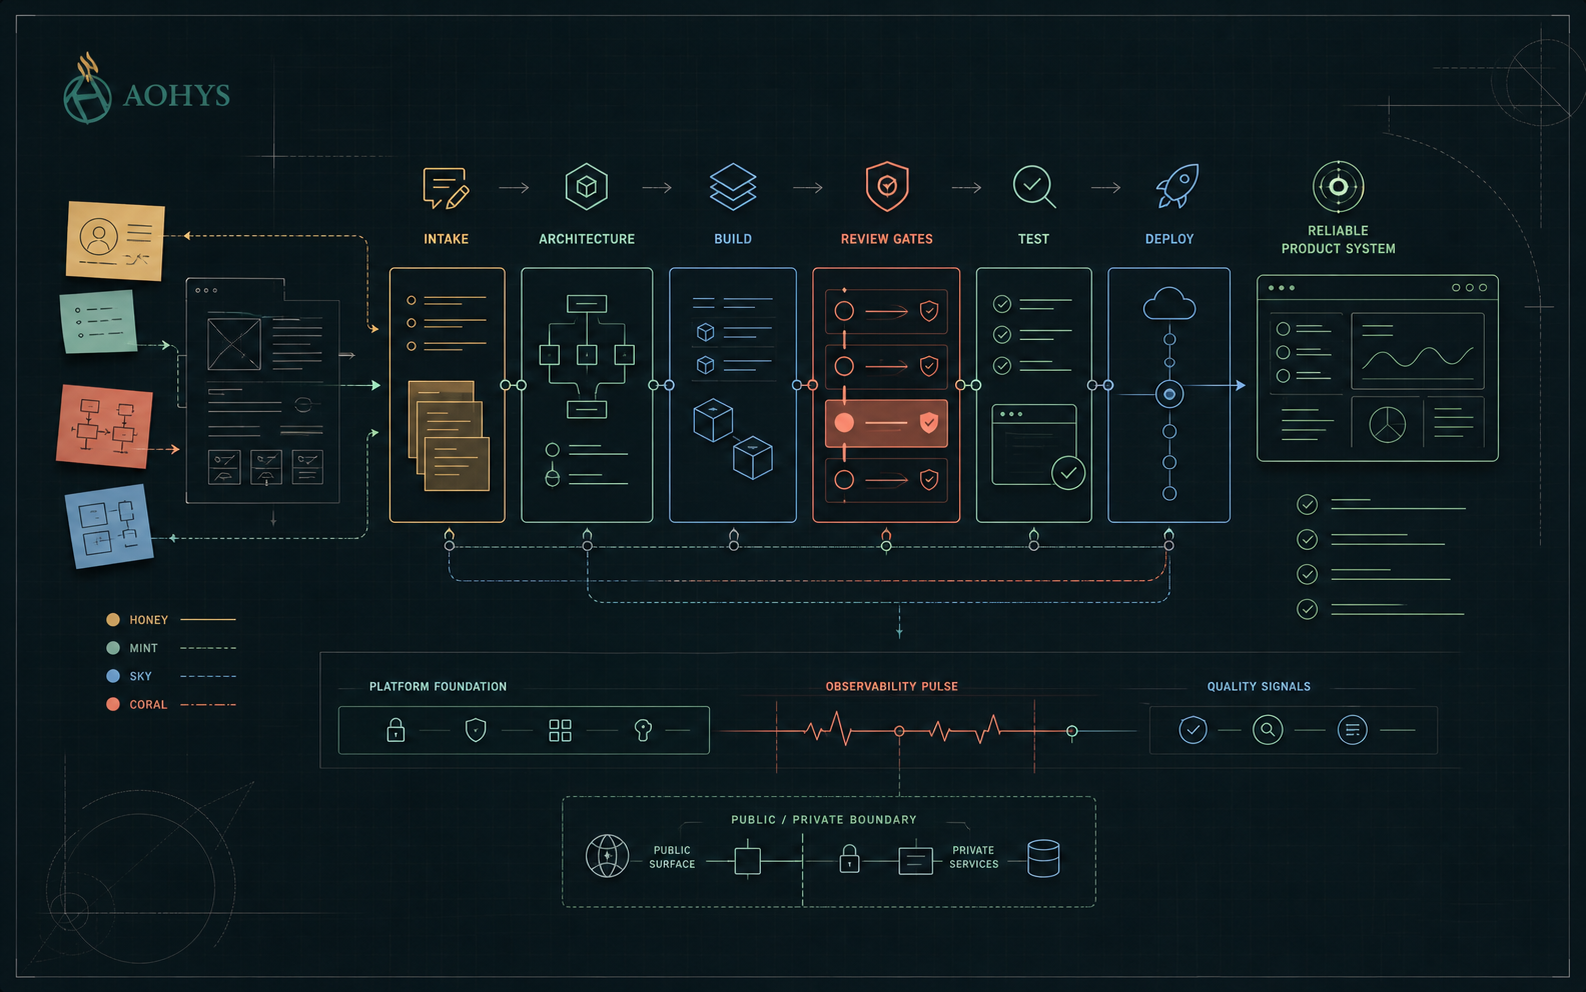
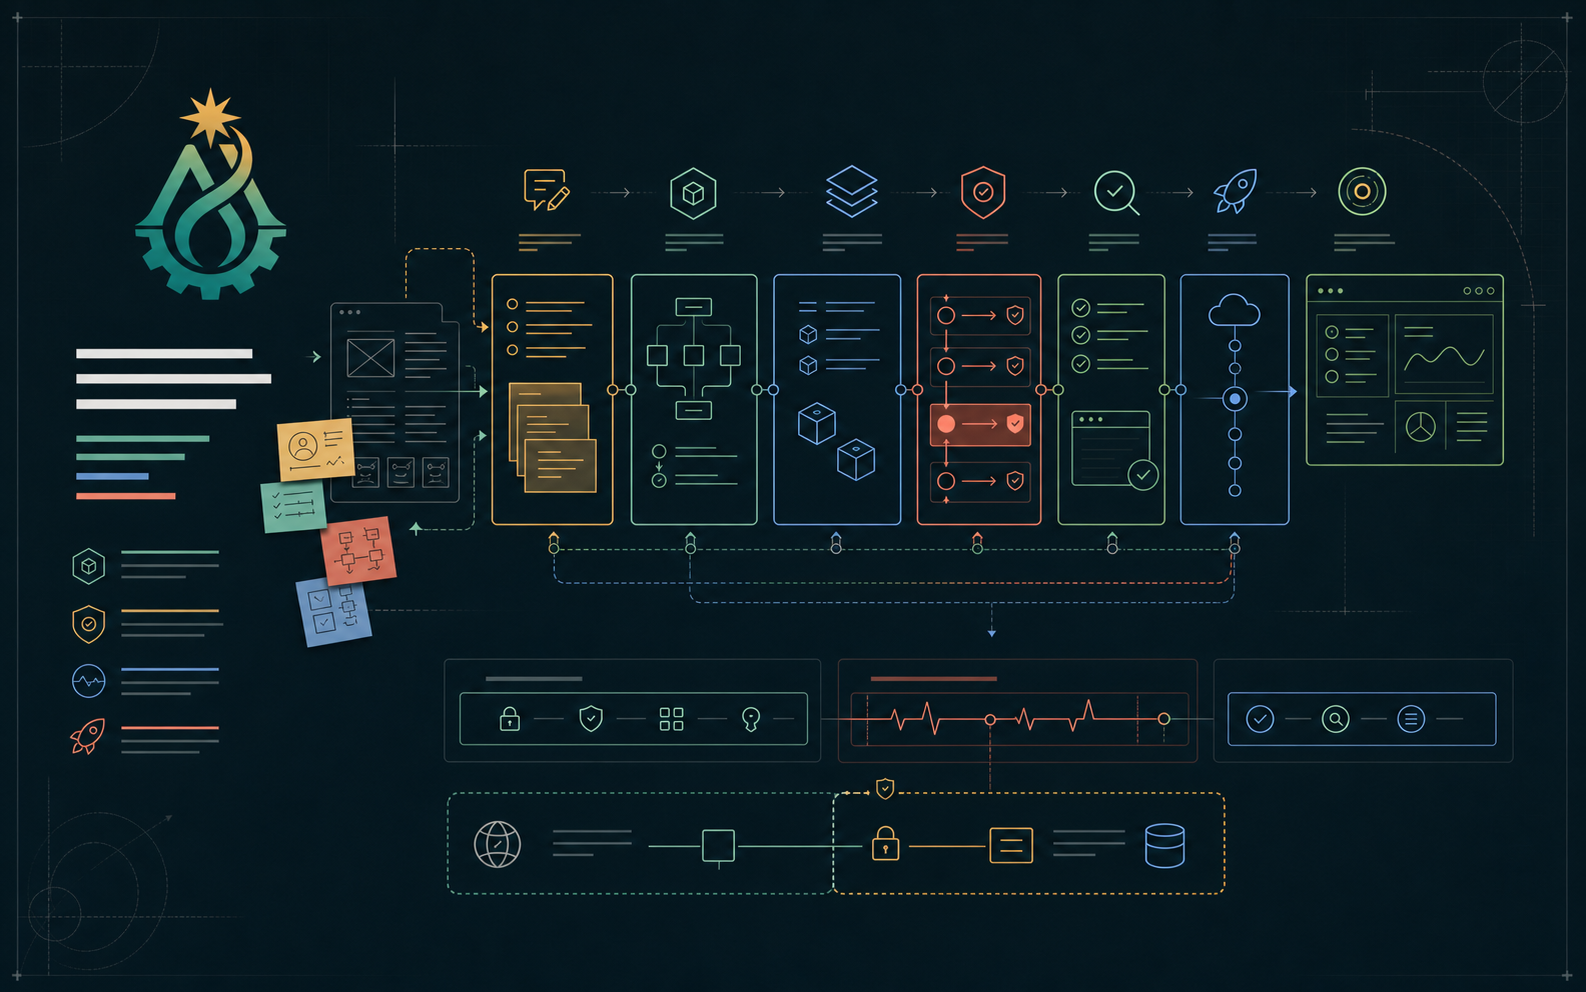
Refine public hero visual system

diff --git a/apps/site/src/styles/global.css b/apps/site/src/styles/global.css
@@ -263,6 +263,7 @@ h3 {
   margin: 0;
   font-family: var(--font-display);
   line-height: var(--leading-heading);
+  overflow-wrap: normal;
   text-wrap: balance;
 }
 
@@ -274,8 +275,8 @@ h1 {
 }
 
 .home-proof-hero h1 {
-  max-width: 19ch;
-  font-size: var(--text-hero);
+  max-width: none;
+  font-size: 3.55rem;
   letter-spacing: 0;
 }
 
@@ -285,21 +286,24 @@ h1 {
 
 .home-proof-hero {
   width: 100%;
-  grid-template-columns: minmax(28rem, 0.78fr) minmax(0, 1.08fr);
-  gap: clamp(2rem, 4vw, 4.25rem);
+  grid-template-columns: minmax(38rem, 0.98fr) minmax(0, 1.02fr);
+  gap: clamp(1.5rem, 3.6vw, 4rem);
   margin-inline: 0;
-  min-height: min(760px, calc(100svh - 77px));
-  padding-block: clamp(2.75rem, 5vw, 5rem);
-  padding-inline: max(1rem, calc((100vw - 1180px) / 2));
+  min-height: min(820px, calc(100svh - 77px));
+  padding-block: clamp(3rem, 6vw, 5.5rem);
+  padding-inline: max(1rem, calc((100vw - 1280px) / 2));
   border-block-end: 1px solid var(--color-dark-rule);
   background:
-    linear-gradient(120deg, color-mix(in oklch, var(--color-mint), transparent 92%), transparent 28rem),
-    radial-gradient(circle at 82% 12%, color-mix(in oklch, var(--color-sky), transparent 86%), transparent 22rem),
+    radial-gradient(circle at 78% 8%, color-mix(in oklch, var(--color-sky), transparent 84%), transparent 24rem),
+    linear-gradient(118deg, color-mix(in oklch, var(--color-mint), transparent 91%), transparent 32rem),
+    linear-gradient(180deg, color-mix(in oklch, var(--color-dark-panel), transparent 12%), var(--color-dark)),
     var(--color-dark);
   color: var(--color-dark-ink);
 }
 
 .home-proof-hero .hero-copy {
+  position: relative;
+  z-index: 2;
   padding-block: clamp(1rem, 3vw, 2.5rem);
   padding-inline-end: 0;
 }
@@ -309,7 +313,7 @@ h1 {
 }
 
 .home-proof-hero .hero-lead {
-  max-width: 54ch;
+  max-width: 52ch;
   color: var(--color-dark-muted);
   overflow-wrap: break-word;
 }
@@ -413,11 +417,14 @@ h2 {
 
 .home-proof-board {
   isolation: isolate;
-  align-self: stretch;
-  min-height: 0;
+  align-self: center;
+  justify-self: end;
+  width: min(100%, 54rem);
+  min-height: clamp(27rem, 36vw, 35rem);
   aspect-ratio: 16 / 10;
   border: 1px solid var(--color-dark-rule);
   background: var(--color-dark-panel);
+  box-shadow: 0 2rem 5rem color-mix(in oklch, var(--color-dark), transparent 22%);
 }
 
 .hero-artifact-asset {
@@ -426,9 +433,73 @@ h2 {
   z-index: 1;
   width: 100%;
   height: 100%;
-  object-fit: contain;
+  object-fit: cover;
   object-position: center;
-  filter: saturate(1.04);
+  filter: saturate(1.08) contrast(1.05);
+}
+
+.hero-proof-insets {
+  position: absolute;
+  inset-inline: 1rem;
+  inset-block-end: 1rem;
+  z-index: 3;
+  display: grid;
+  grid-template-columns: repeat(3, minmax(0, 1fr));
+  gap: 0.75rem;
+}
+
+.hero-proof-inset {
+  display: grid;
+  gap: 0.25rem;
+  min-width: 0;
+  border: 1px solid var(--color-dark-rule);
+  background: color-mix(in oklch, var(--color-dark-panel), transparent 8%);
+  padding: 0.45rem;
+  color: var(--color-dark-ink);
+  text-decoration: none;
+}
+
+.hero-proof-inset img {
+  width: 100%;
+  aspect-ratio: 1.65;
+  border: 1px solid var(--color-dark-rule);
+  background: var(--color-dark);
+  object-fit: cover;
+  object-position: center 34%;
+  filter: saturate(0.72) contrast(1.08);
+}
+
+.hero-proof-inset span,
+.hero-proof-inset strong {
+  overflow: hidden;
+  text-overflow: ellipsis;
+  white-space: nowrap;
+}
+
+.hero-proof-inset span {
+  color: var(--color-dark-muted);
+  font-family: var(--font-display);
+  font-size: var(--text-caption);
+  font-weight: 680;
+}
+
+.hero-proof-inset strong {
+  font-family: var(--font-display);
+  font-size: var(--text-small);
+  font-weight: 760;
+  line-height: 1.1;
+}
+
+.hero-proof-inset-1 {
+  transform: translateY(-0.45rem);
+}
+
+.hero-proof-inset-2 {
+  transform: translateY(0.25rem);
+}
+
+.hero-proof-inset-3 {
+  transform: translateY(-0.15rem);
 }
 
 .proof-board-caption {
@@ -1691,8 +1762,8 @@ h2 {
   }
 
   .home-proof-hero h1 {
-    max-width: 15ch;
-    font-size: 2.15rem;
+    max-width: none;
+    font-size: 2rem;
   }
 
   .hero-section {
@@ -1715,18 +1786,16 @@ h2 {
 
   .hero-principles {
     display: grid;
-    grid-template-columns: 1fr;
-    gap: 0;
-    border-block: 1px solid var(--color-dark-rule);
+    grid-template-columns: repeat(3, minmax(0, 1fr));
+    gap: 0.55rem;
+    border-block: 0;
   }
 
   .hero-principles li {
-    grid-template-columns: 2.75rem minmax(0, 1fr);
-    gap: 0.75rem;
-    align-items: baseline;
+    display: block;
     max-width: none;
     border-block-start: 1px solid var(--color-dark-rule);
-    padding-block: 0.7rem;
+    padding-block: 0.55rem 0;
   }
 
   .hero-principles li:first-child {
@@ -1734,11 +1803,17 @@ h2 {
   }
 
   .hero-principles li span {
-    grid-row: 1 / span 2;
+    display: block;
+    margin-block-end: 0.25rem;
   }
 
   .hero-principles p {
-    line-height: 1.45;
+    font-size: 0.78rem;
+    line-height: 1.32;
+  }
+
+  .hero-principles strong {
+    display: block;
   }
 
   .hero-lead {
@@ -1783,6 +1858,25 @@ h2 {
   .home-proof-board {
     max-width: 100%;
     min-height: 0;
+    aspect-ratio: 16 / 11;
+  }
+
+  .hero-proof-insets {
+    inset: auto 0.75rem 0.75rem;
+    grid-template-columns: 1fr;
+    gap: 0;
+  }
+
+  .hero-proof-inset {
+    padding: 0.4rem;
+  }
+
+  .hero-proof-inset:not(:first-child) {
+    display: none;
+  }
+
+  .hero-proof-inset img {
+    aspect-ratio: 2.6;
   }
 
   .case-index-proof-wall {

diff --git a/apps/site/test/public-routes-build.test.ts b/apps/site/test/public-routes-build.test.ts
@@ -64,8 +64,9 @@ describe("built public routes", () => {
 
     expect(homeHtml).toContain('data-home-content-id="home"');
     expect(homeHtml).toContain("Senior engineering.");
-    expect(homeHtml).toContain("Software that holds up.");
-    expect(homeHtml).toContain("Proof ledger");
+    expect(homeHtml).toContain("Measurable impact.");
+    expect(homeHtml).toContain("Selected work, backed by evidence.");
+    expect(homeHtml).toContain("Architecture, release gates, and public-safe evidence in one view.");
     expect(homeHtml).toContain("Workflow first.");
     expect(homeHtml).toContain('href="/case-studies/casa-roca"');
     expect(homeHtml).toContain('href="/case-studies/the-barber-central"');
@@ -82,8 +83,8 @@ describe("built public routes", () => {
     expect(homeHtml).not.toContain("Download ATS PDF");
 
     expect(spanishHomeHtml).toContain('data-home-content-id="home"');
-    expect(spanishHomeHtml).toContain("Software que aguanta.");
-    expect(spanishHomeHtml).toContain("Ledger de prueba");
+    expect(spanishHomeHtml).toContain("Impacto medible.");
+    expect(spanishHomeHtml).toContain("Trabajo seleccionado, respaldado por evidencia.");
     expect(spanishHomeHtml).toContain("Workflow primero.");
     expect(spanishHomeHtml).toContain('href="/es/casos/casa-roca"');
     expect(spanishHomeHtml).toContain('aria-label="Evidencia pública segura de Casa Roca"');

diff --git a/docs/aohys-public-site-image-prompts.md b/docs/aohys-public-site-image-prompts.md
@@ -30,9 +30,15 @@ Current asset: `apps/site/public/images/generated/aohys-delivery-artifact.png`
 
 Prompt used:
 
+> High-fidelity website hero visual for AOHYS, a senior software engineering public site. Dark ink technical drafting surface, optimistic pastel accents from a teal and honey logo: mint, honey amber, sky blue, soft coral. Composition should feel like Option C: large architectural system map behind the content, with real screenshot placeholders framed as proof artifacts, thin connector lines, release gates, observability pulse, and public/private boundary. No readable text except abstract short line blocks, no terminal UI, no fake metrics, no glassmorphism, no purple gradients, no people, no robots, no mascots. The result should feel precise, joyful, professional, evidence-led, and spacious, not a generic SaaS landing page. 16:10 landscape, browser-free full-bleed composition suitable as a hero support image.
+
+Generated source: `/Users/corrortiz/.codex/generated_images/019f0681-5ad1-7573-b740-b134dea0edd5/ig_06b1c30cbe31ca15016a43422f923c819880fd7a5ea142442f.png`
+
+Earlier prompt retained for historical context:
+
 > Create a high-end generated bitmap asset for the AOHYS public site, 16:10 landscape. Visual subject: a senior software delivery review table where business workflow notes become a reliable product system. Dark ink drafting surface with precise pastel honey, mint, sky, and coral signal lines. Include abstract proof artifacts: review gates, browser QA check, deployment path, feedback loop, observability pulse, and a small public/private boundary diagram. Use elegant geometric composition, generous negative space, crisp rules, no readable real text, no fake metrics, no code terminal, no chat bubbles, no robots, no glassmorphism, no purple gradients, no people, no mascots. It should feel like optimistic professional engineering craft, coordinated with a teal/honey AOHYS logo palette. This is a support image, not client proof.
 
-Implementation note: this asset is used as the generated process artifact in the home hero. It is not presented as client work or operational evidence; screenshots remain the case-study proof layer.
+Implementation note: this asset is used as the generated process artifact in the home hero. It is not presented as client work or operational evidence; real screenshots remain the proof layer and are composited separately in the page.
 
 Create a visual showing modern software delivery with AI agents as process support rather than robots: task cards moving through review, tests, browser QA, and deploy gates. Use a polished product design language, clean lines, pastel accent markers, and strong spacing. It should communicate human judgment plus automated leverage. Do not show humanoid robots, chat bubbles, neon cyberpunk, or generic AI icons.
 